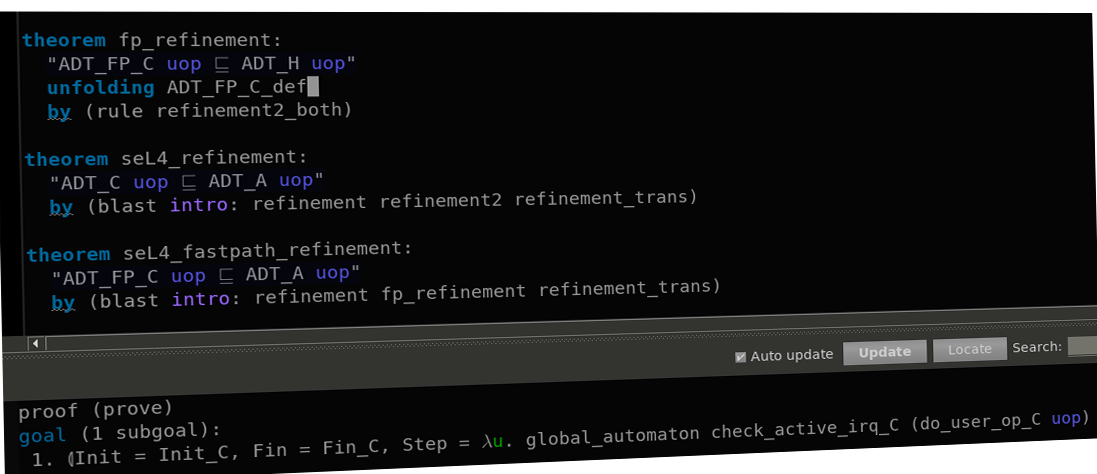
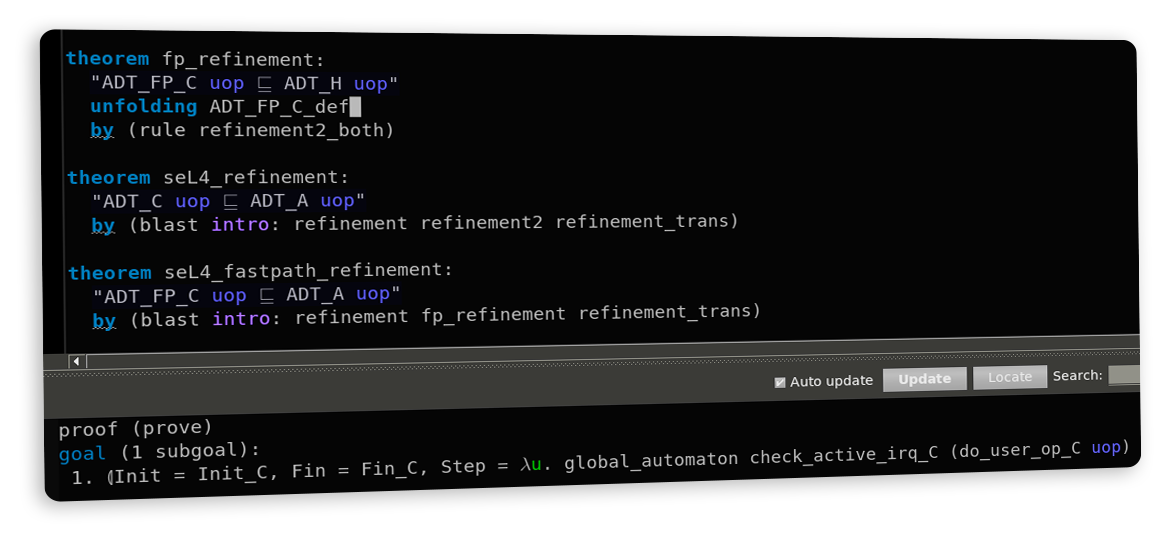
proofs: tune screenshot

diff --git a/Verification/proofs.html b/Verification/proofs.html
@@ -16,7 +16,7 @@ sub: '
 '
 img: /images/screenshot-isabelle-dark.png
 img_alt: "Screenshot of the main theorem in the seL4 C refinement proofs"
-img_class: "w-2/3 mx-auto rounded-lg"
+img_class: "w-2/3 mx-auto"
 layout: card
 ---
 
